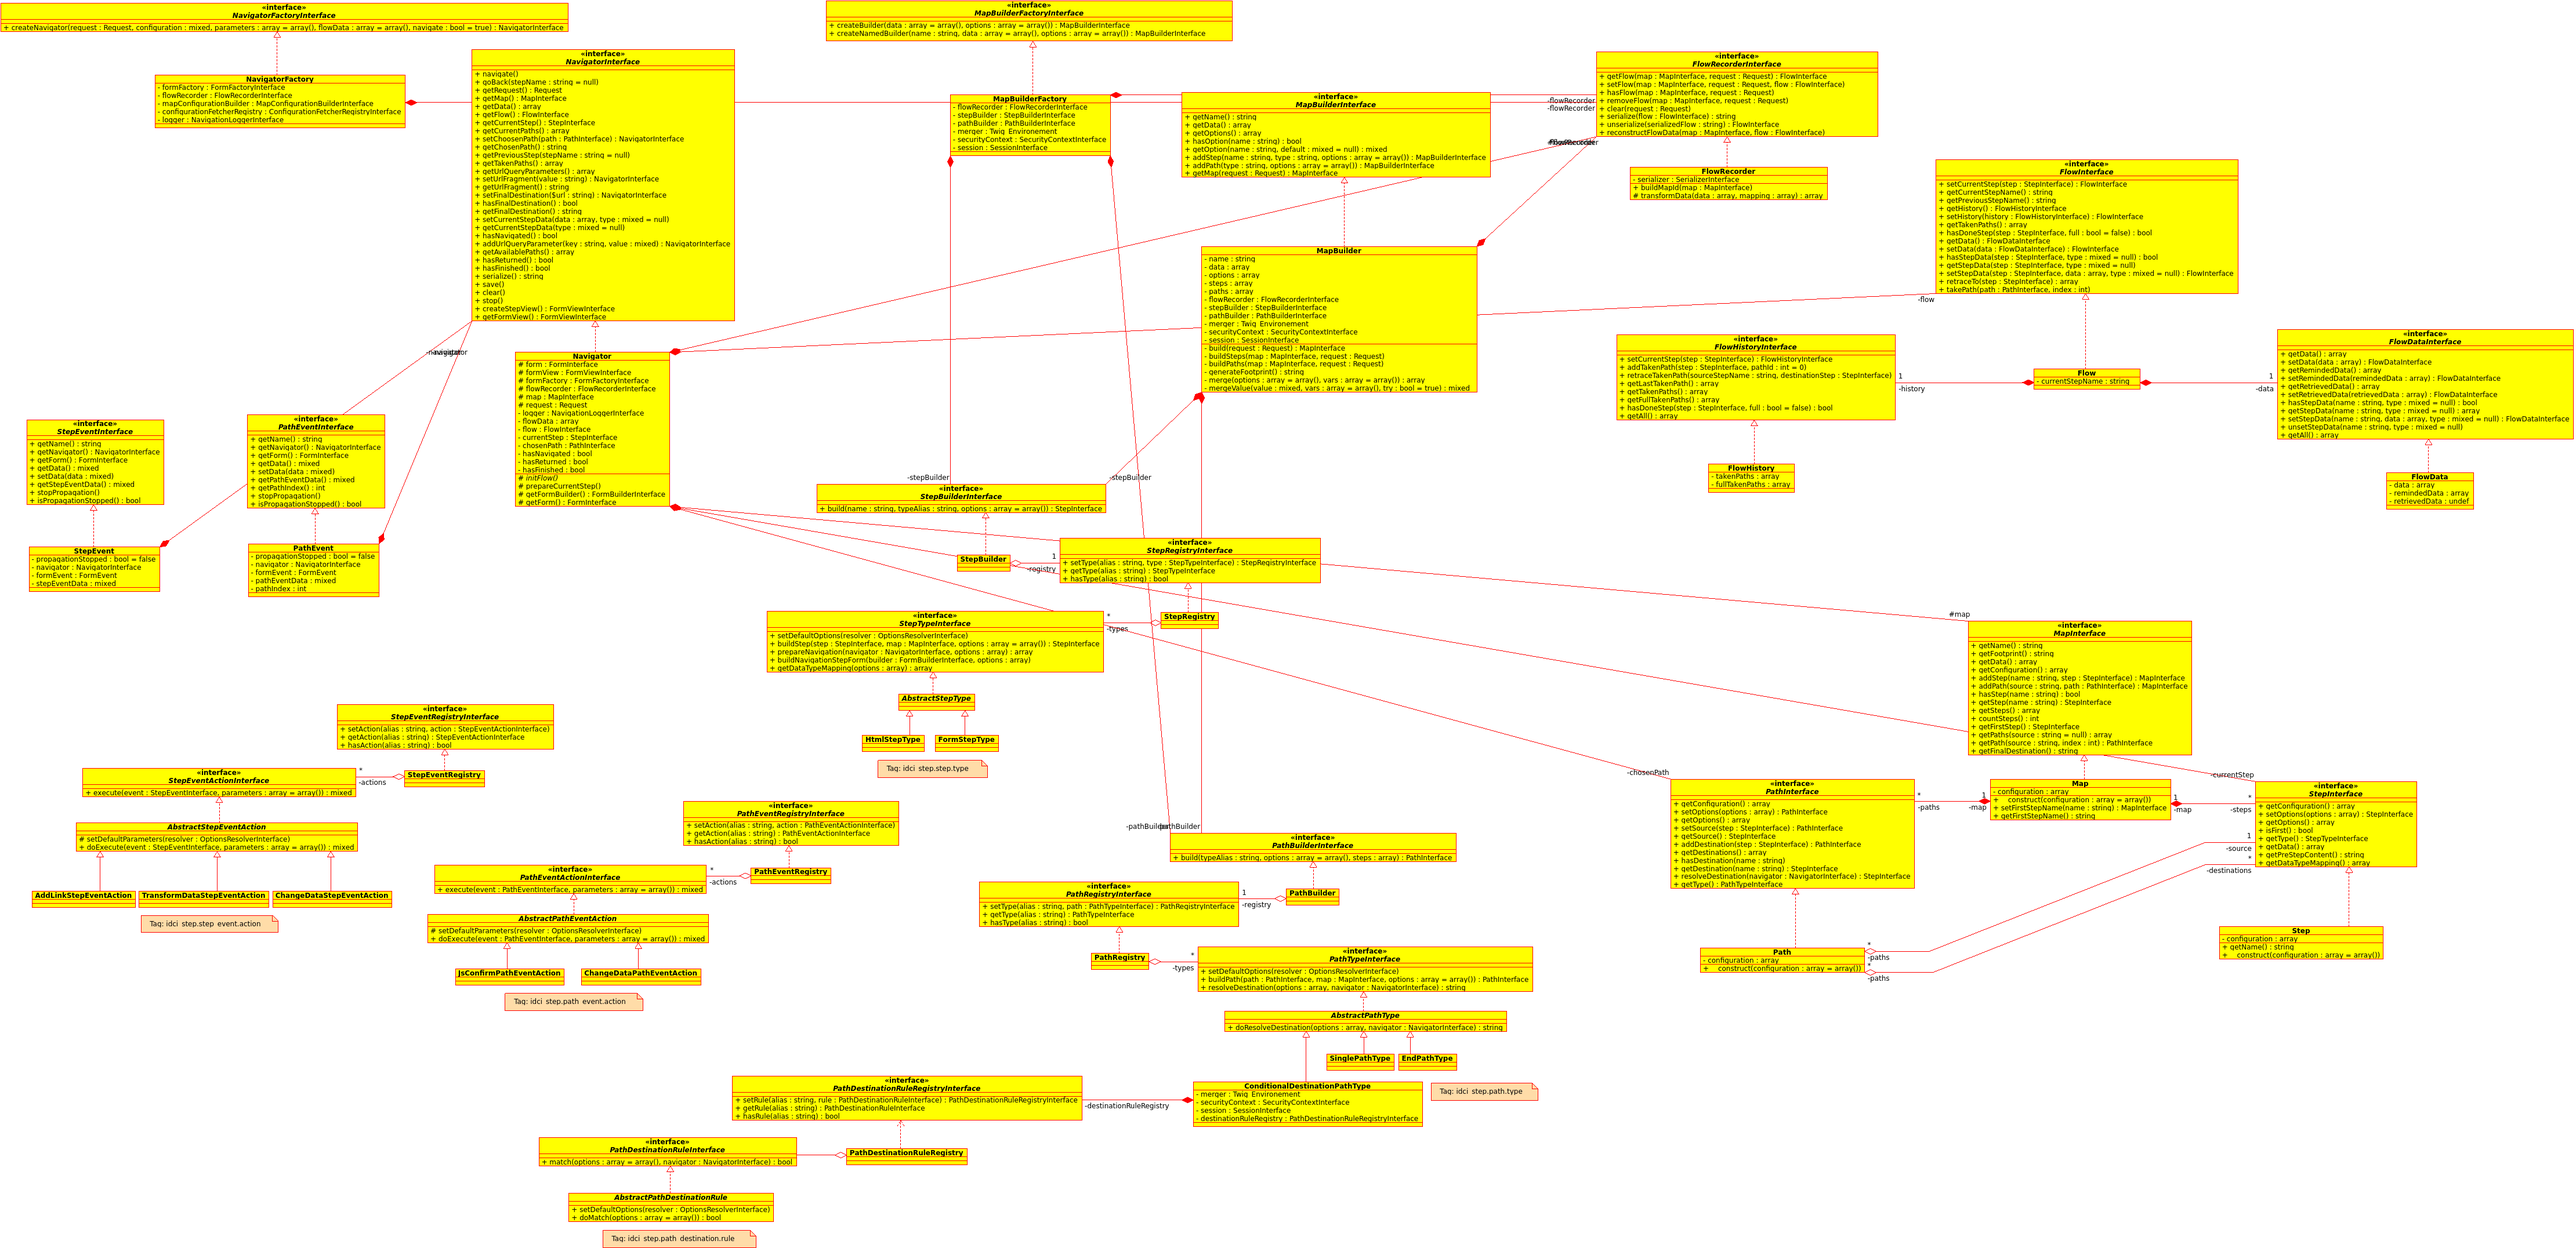
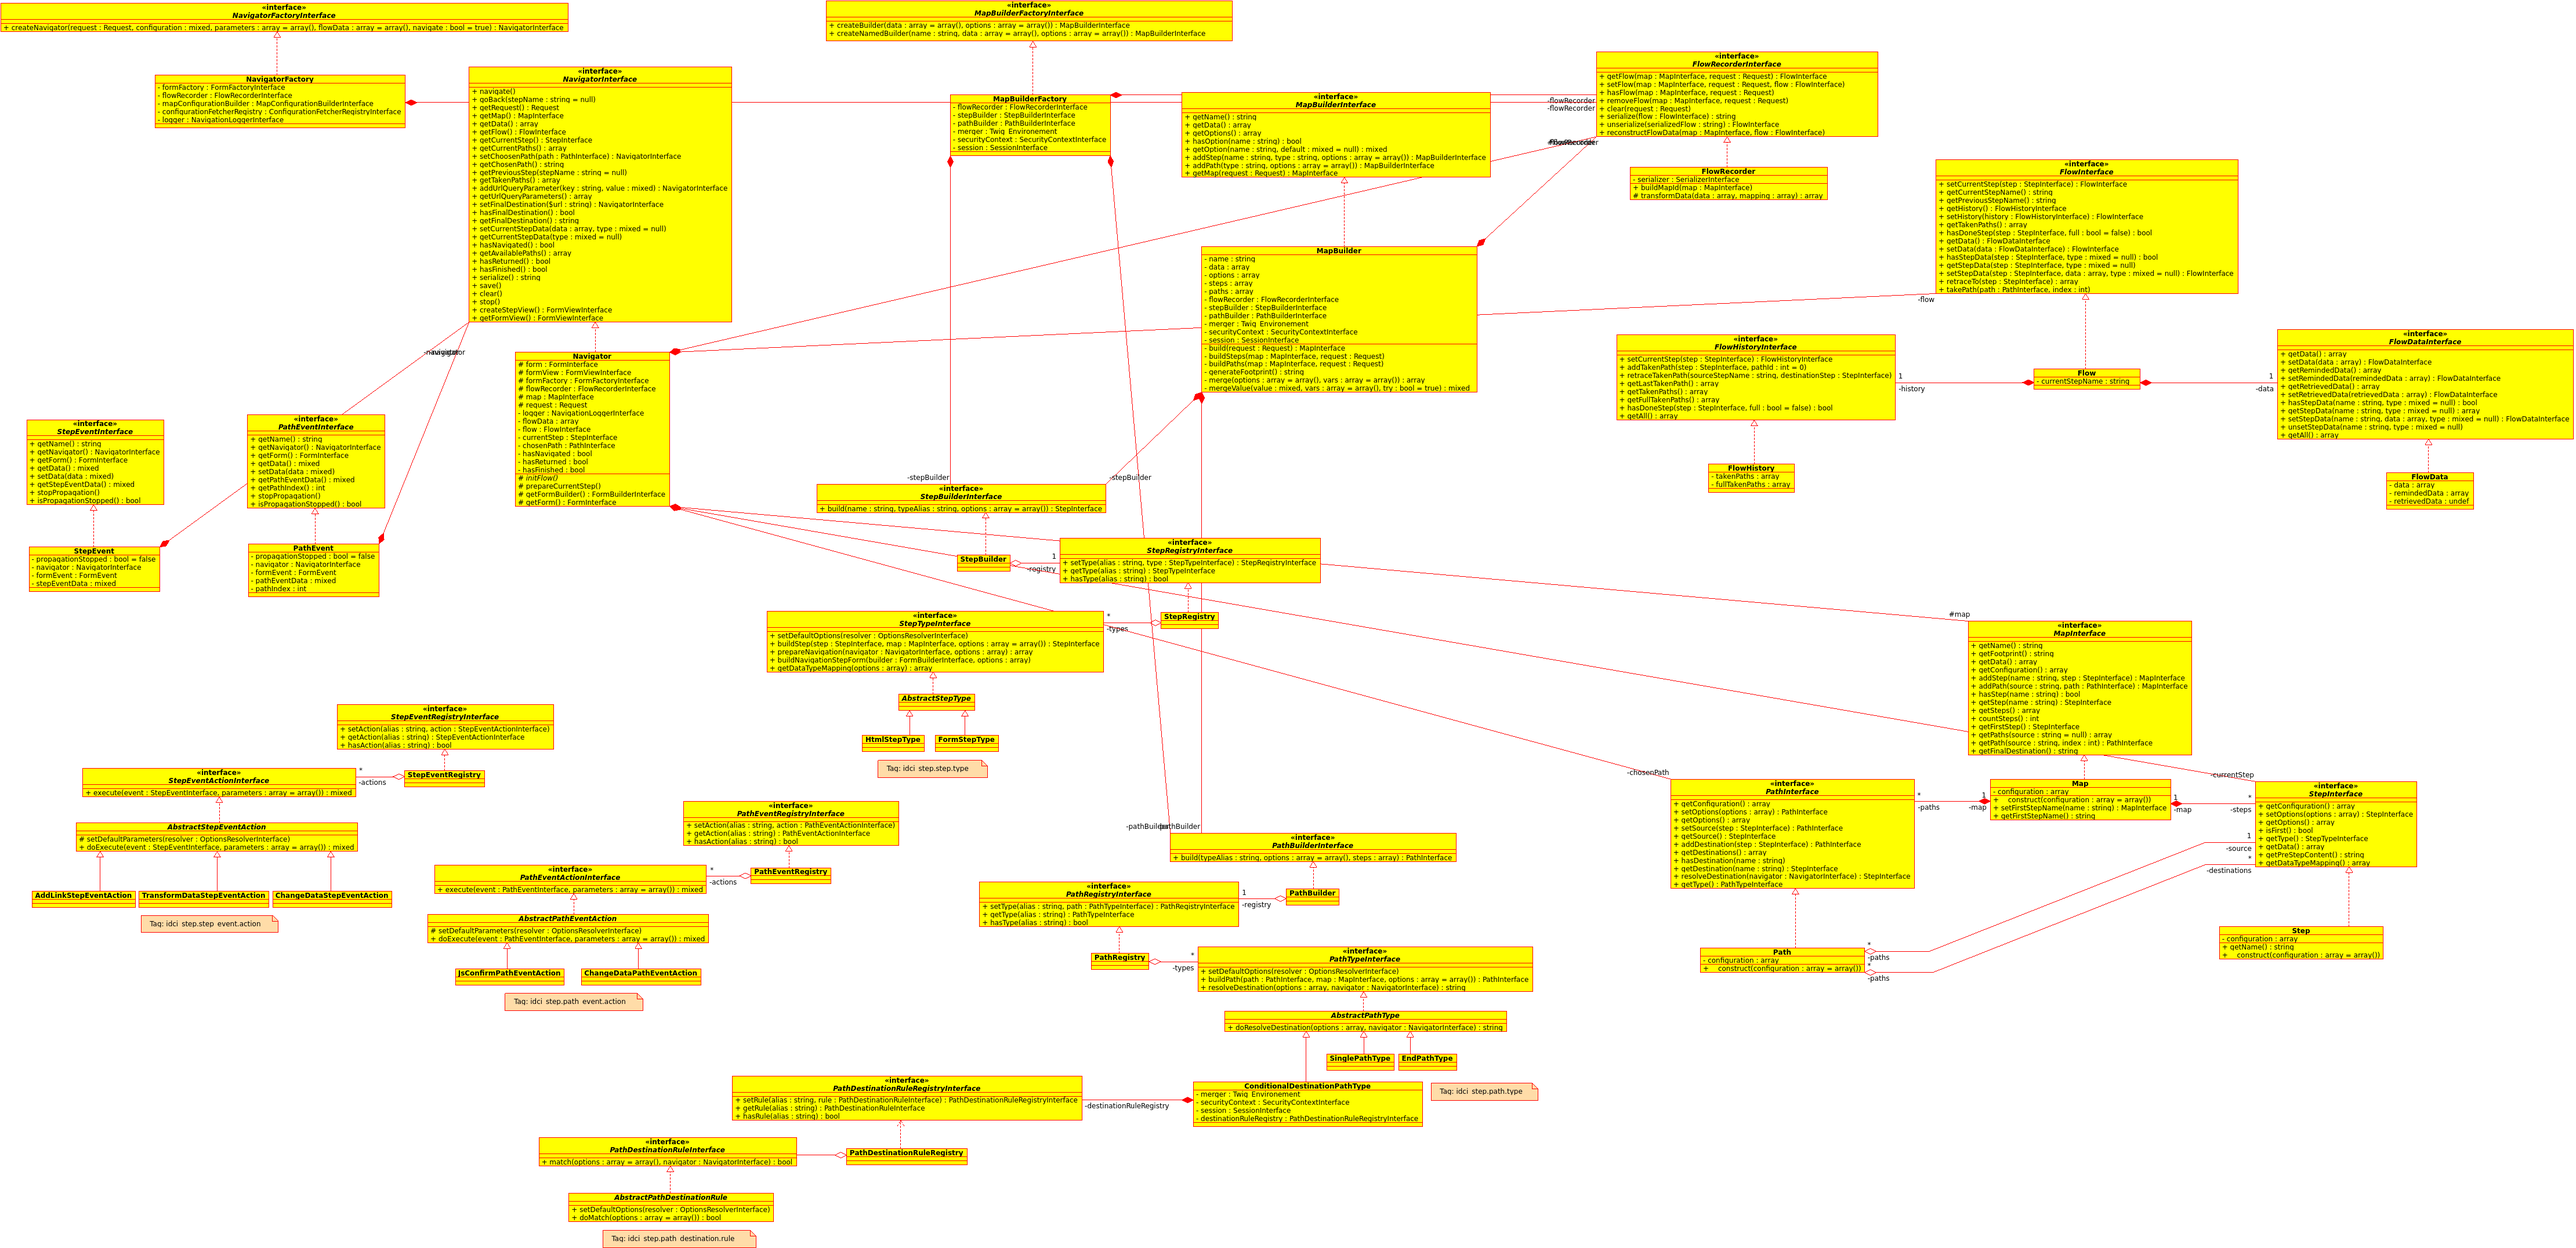
Remove URL Fragment (Cause not well handle with HTTP 3XX => Redirection), Add Path event action to add url query parameter

Changed region(s): [[0.1864, 0.0311, 0.2797, 0.2801]]

diff --git a/Path/Event/Action/AddUrlQueryParameterPathEventAction.php b/Path/Event/Action/AddUrlQueryParameterPathEventAction.php
@@ -1,0 +1,52 @@
+<?php
+
+/**
+ * @author:  Gabriel BONDAZ <gabriel.bondaz@idci-consulting.fr>
+ * @license: MIT
+ */
+
+namespace IDCI\Bundle\StepBundle\Path\Event\Action;
+
+use Symfony\Component\OptionsResolver\OptionsResolverInterface;
+use Symfony\Component\OptionsResolver\Options;
+use IDCI\Bundle\StepBundle\Path\Event\PathEventInterface;
+use IDCI\Bundle\StepBundle\Flow\FlowInterface;
+
+class AddUrlQueryParameterPathEventAction extends AbstractPathEventAction
+{
+    /**
+     * {@inheritdoc}
+     */
+    protected function doExecute(
+        PathEventInterface $event,
+        array $parameters = array()
+    )
+    {
+        $event->getNavigator()->addUrlQueryParameter(
+            $parameters['key'],
+            $parameters['value']
+        );
+
+        return true;
+    }
+
+    /**
+     * {@inheritdoc}
+     */
+    protected function setDefaultParameters(OptionsResolverInterface $resolver)
+    {
+        $resolver
+            ->setRequired(array('key'))
+            ->setDefaults(array('value' => '1'))
+            ->setNormalizers(array(
+                'value' => function(Options $options, $value) {
+                    return (string)$value;
+                }
+            ))
+            ->setAllowedTypes(array(
+                'key'   => array('string'),
+                'value' => array('string', 'boolean', 'integer'),
+            ))
+        ;
+    }
+}

diff --git a/Navigation/Navigator.php b/Navigation/Navigator.php
@@ -89,11 +89,6 @@ class Navigator implements NavigatorInterface
     /**
      * @var string
      */
-    protected $urlFragment;
-
-    /**
-     * @var string
-     */
     protected $finalDestination;
 
     /**
@@ -141,7 +136,6 @@ class Navigator implements NavigatorInterface
         $this->currentStep        = null;
         $this->chosenPath         = null;
         $this->urlQueryParameters = array();
-        $this->urlFragment        = null;
         $this->finalDestination   = null;
         $this->hasNavigated       = false;
         $this->hasReturned        = false;
@@ -451,24 +445,6 @@ class Navigator implements NavigatorInterface
     public function getUrlQueryParameters()
     {
         return $this->urlQueryParameters;
-    }
-
-    /**
-     * {@inheritdoc}
-     */
-    public function setUrlFragment($value)
-    {
-        $this->urlFragment = substr($value, 0, 1) === '#' ? $value : '#'.$value;
-
-        return $this;
-    }
-
-    /**
-     * {@inheritdoc}
-     */
-    public function getUrlFragment()
-    {
-        return $this->urlFragment;
     }
 
     /**

diff --git a/Navigation/NavigatorInterface.php b/Navigation/NavigatorInterface.php
@@ -113,22 +113,6 @@ interface NavigatorInterface
     public function getUrlQueryParameters();
 
     /**
-     * Set the URL fragment.
-     *
-     * @param string $value The URL fragment.
-     *
-     * @return NavigatorInterface
-     */
-    public function setUrlFragment($value);
-
-    /**
-     * Returns the URL fragment.
-     *
-     * @return string.
-     */
-    public function getUrlFragment();
-
-    /**
      * Set the final destination.
      *
      * @param string $url The final destination url.
